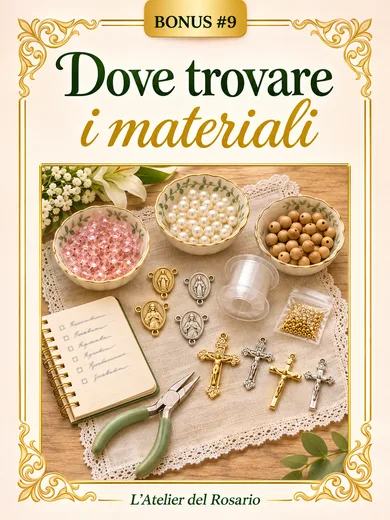
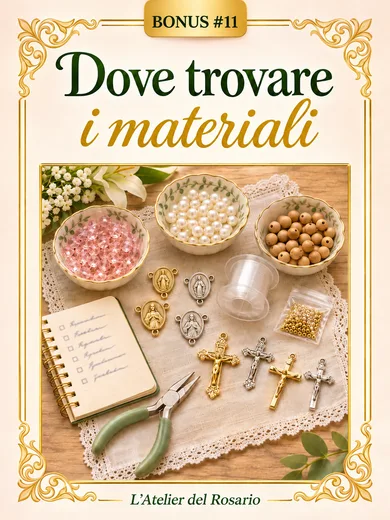
Capas finais dos bonus 9 e 11 e oferta em leque
- img/bonus09.webp = "Le videolezioni", img/bonus11.webp = "Dove trovare i materiali" (selo #11)
- oferta-final.webp (1180x1100, fundo transparente): manual de frente, 11 capas em leque em 2 camadas
  com sombra e o selo vermelho "+11 BONUS"; montado por _oferta.cjs (sharp)

diff --git a/index.html b/index.html
@@ -394,7 +394,7 @@ footer{color:var(--l-ink-soft);font-size:12.5px}
   <p class="lead">Il manuale completo e gli 11 bonus, con un solo pagamento.</p>
   <div class="oferta">
    <div class="ribbon">⭐ ACCESSO COMPLETO · TUTTO INCLUSO</div>
-   <img width="900" height="1125" loading="lazy" decoding="async" class="ofimg" src="img/oferta-final.webp" alt="Il manuale con +100 modelli di rosari fatti a mano e le copertine degli 11 bonus">
+   <img width="1180" height="1100" loading="lazy" decoding="async" class="ofimg" src="img/oferta-final.webp" alt="Il manuale con +100 modelli di rosari fatti a mano e le copertine degli 11 bonus">
    <ul>
     <li><span><b>+100 modelli</b> passo passo</span></li>
     <li><span><b>Il cammino del rosario</b> disegnato grano per grano in ogni modello</span></li>
